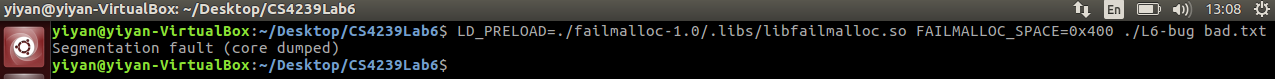
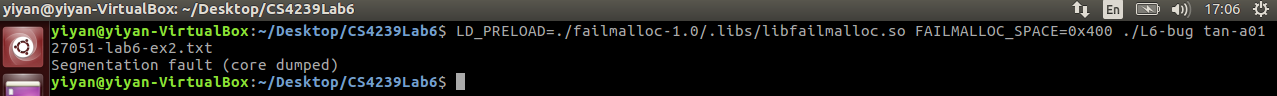
renamed stuff

Changed region(s): [[0.0, 0.0, 1.0, 1.0], [0.7647, 0.481, 0.7953, 0.5063], [0.3671, 0.481, 0.3976, 0.5063]]

diff --git a/tan-a0127051-lab6.md b/tan-a0127051-lab6.md
@@ -28,14 +28,14 @@ The screenshot in Figure 2. shows the results of using `failmalloc` on *vim*. It
 **Bug 1** <br>
 From inspecting the source code, it is evident that program is trying to print the contents of the input file line by line. It initialised a pointer `buf` to point to the memory allocated to store a line in the input file. The memory was allocated using `malloc` and there is a check to check if the memory allocation call succeeded so `failmalloc` should not be able to directly cause a segmentation fault at this memory allocation call. This memory block pointed by `buf` had an initial size of 128 bytes. However, a line in the input line may have more than 128 characters. Therefore, `realloc` is used to resize the memory block pointed to by `buf`. Unfortunately, the author of the program did not include checks to catch the failure condition of this memory allocation call (`realloc`).
 
-As a result, I can cause a segmentation fault by using *bad.txt* and limiting the memory that can be allocated successfully using `failmalloc`. *bad.txt* is a file that contains a line of 129 characters. Therefore, the program will need to make the `realloc` call when *bad.txt* is the input file. I made this `realloc` fail by limiting the memory that can be allocated successfully to 128 bytes by using the option `FAILMALLOC_SPACE=0x400`. As seen in Figure 3, this results in a segmentation fault because the `realloc` attempted to allocate a memory block that is at least 256 bytes but failed to do so due to the memory allocation limit set using the `failmalloc` option.
+As a result, I can cause a segmentation fault by using *tan-a0127051-lab6-ex2.txt* and limiting the memory that can be allocated successfully using `failmalloc`. *tan-a0127051-lab6-ex2.txt* is a file that contains a line of 129 characters. Therefore, the program will need to make the `realloc` call when *tan-a0127051-lab6-ex2.txt* is the input file. I made this `realloc` fail by limiting the memory that can be allocated successfully to 128 bytes by using the option `FAILMALLOC_SPACE=0x400`. As seen in Figure 3, this results in a segmentation fault because the `realloc` attempted to allocate a memory block that is at least 256 bytes but failed to do so due to the memory allocation limit set using the `failmalloc` option.
 
 <img src="bug1.png">
 *Figure 3. Bug 1*
 
 <br>
 **Bug 2** <br>
-The implementation of `fopen()` on my machine appears to make at least one memory allocation call and the author did not include checks for this memory allocation call. As a result, the program crashes when this memory allocation call fails. This can be achieved by using an arbitrary file and using the `FAILMALLOC_TIMES=1` option to fail the memory allocation calls exactly once. This memory allocation call was made by `fopen()`. As seen in Figure 4., a segmentation faults happens.
+The implementation of `fopen()` on my machine appears to make at least one memory allocation call and the author did not include checks for this memory allocation call. As a result, the program crashes when this memory allocation call fails. This can be achieved by using an arbitrary file (I just used *tan-a0127051-lab6-ex2.txt*) and using the `FAILMALLOC_TIMES=1` option to fail the memory allocation calls exactly once. This memory allocation call was made by `fopen()`. As seen in Figure 4., a segmentation faults happens.
 
 <img src="bug2.png">
 *Figure 4. Bug 2*
